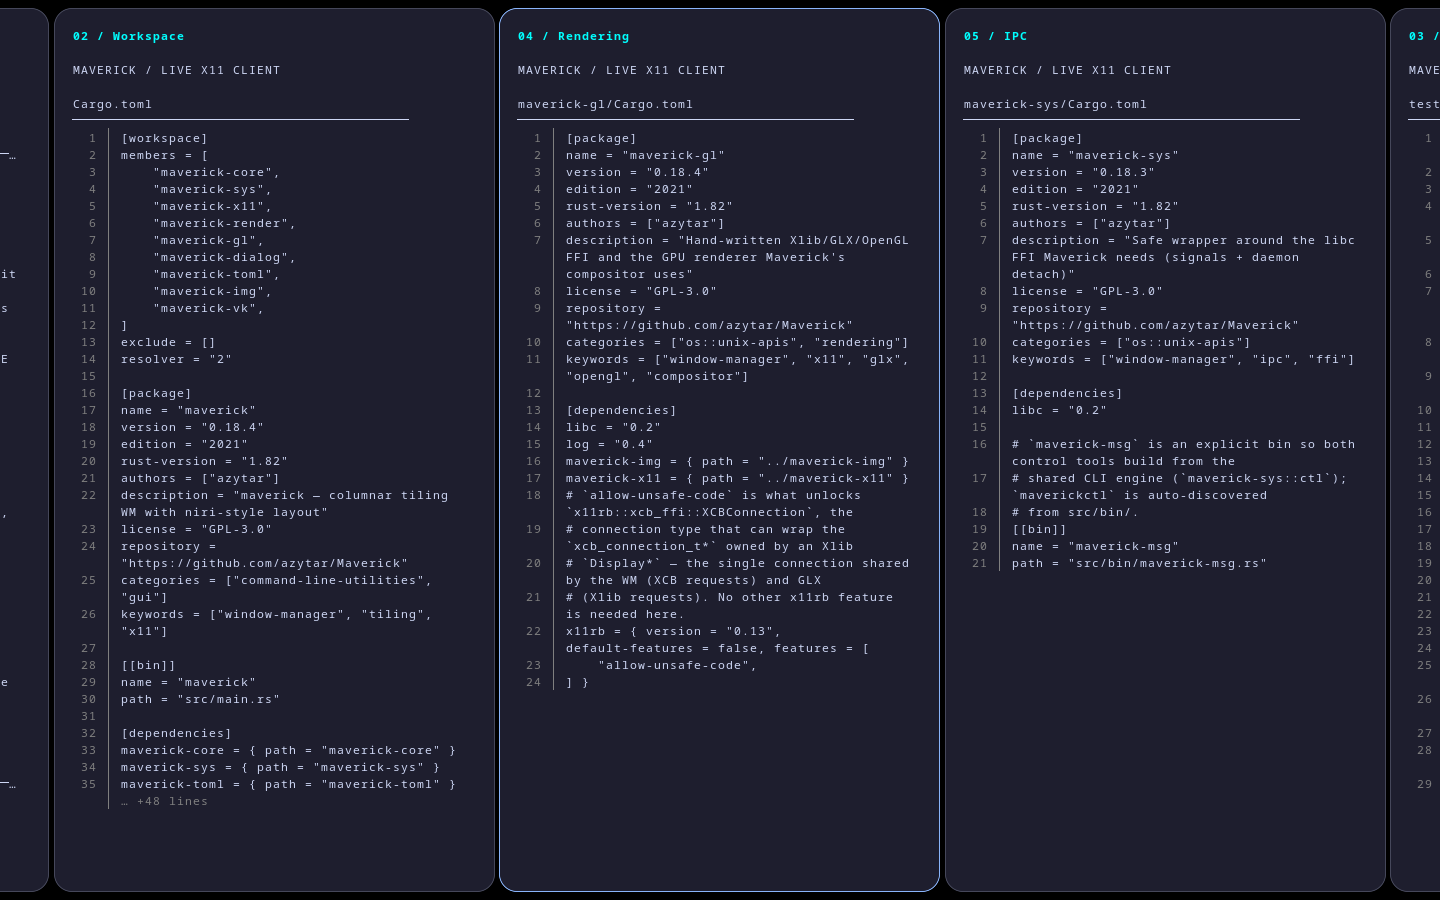
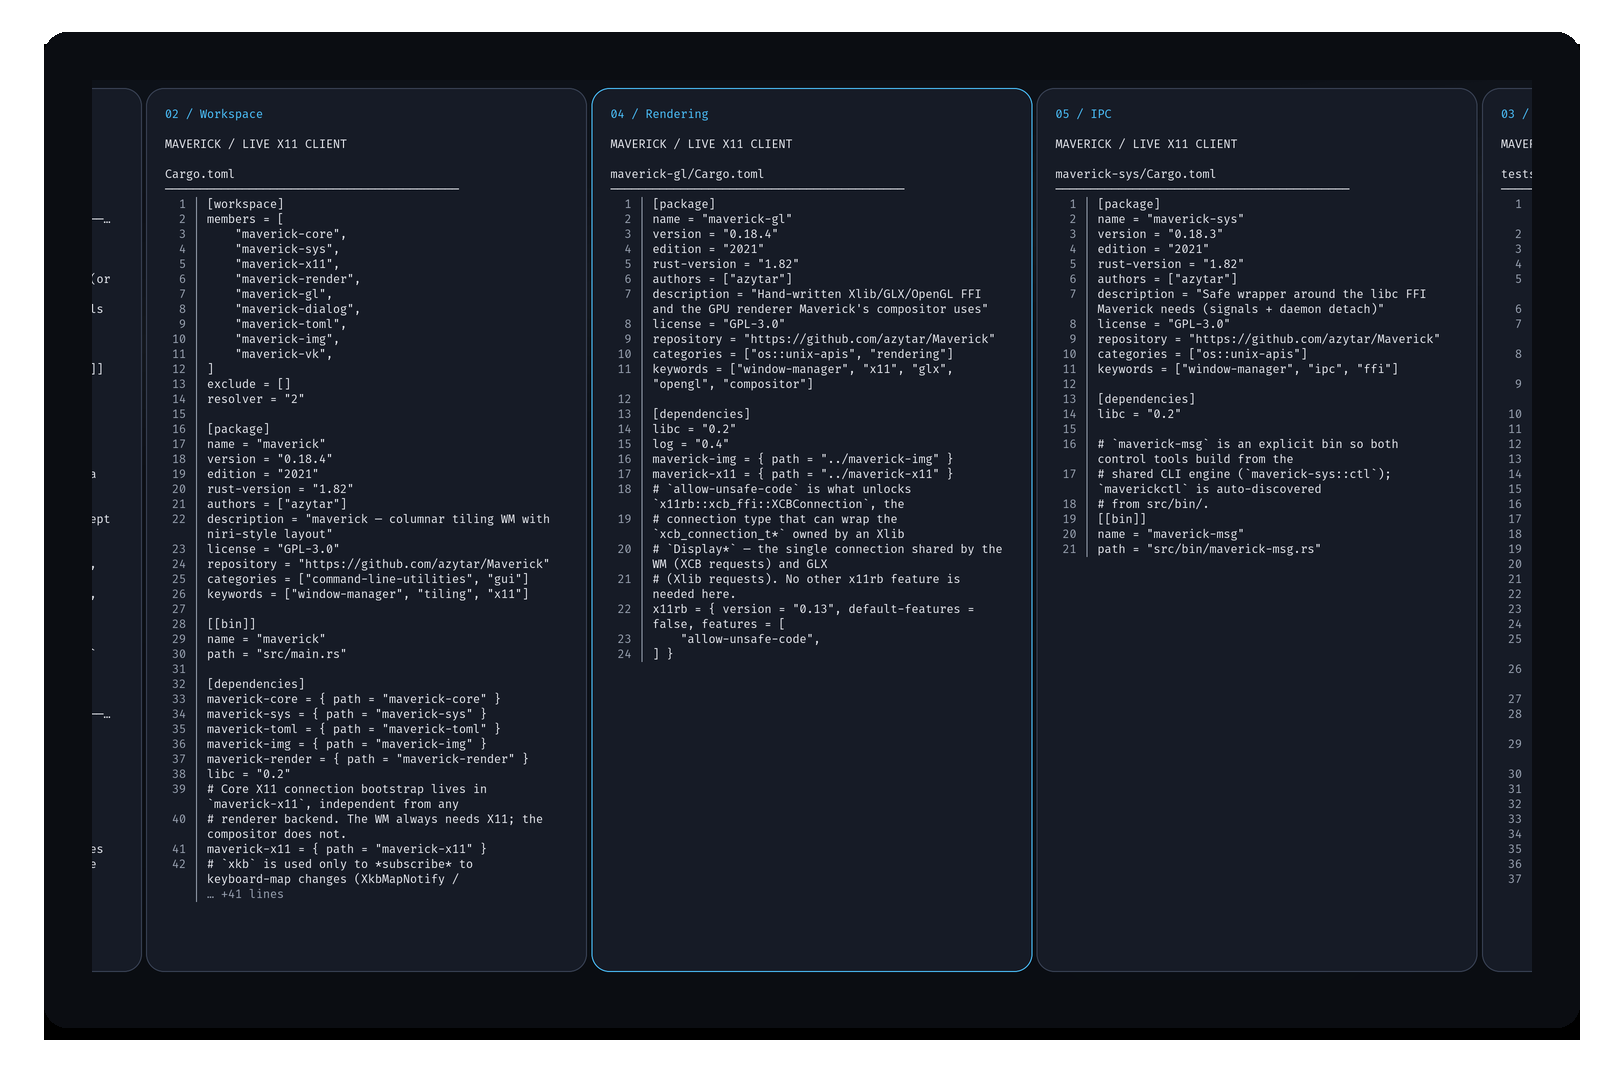
docs: refresh showcase assets
Regenerate all 15 captures with the final 2x pipeline (Fira Code,
showcase palette, procedural wallpaper, Lanczos to 1440x900, sRGB
stripped, 1616x1076 presentation frame). README compositor caption
notes the tinted float; reproduction notes describe the real pipeline.

diff --git a/README.md b/README.md
@@ -612,10 +612,10 @@ The focused window in exclusive fullscreen presentation.
 
 ![Maverick compositor](docs/screenshots/compositor.png)
 
-The optional OpenGL compositor drawing window opacity (the floating window is
-rendered with rule-set `opacity = 0.78`, tiles visible through it) over the same
-layout. Driver and nested-server compatibility still need testing; this capture
-used Mesa's software renderer.
+The optional OpenGL compositor drawing window opacity (the tinted floating
+window is rendered with rule-set `opacity = 0.78`, tiles visible through it)
+over the same layout. Driver and nested-server compatibility still need testing;
+this capture used Mesa's software renderer.
 
 ### Reproducing the screenshots
 
@@ -632,12 +632,15 @@ not replace the WM on the parent display or modify the user's configuration.
 ./scripts/showcase/run.sh all
 ```
 
-Each run verifies the screenshot dimensions, checks that the GL scene really
+Each run renders Maverick inside Xephyr at 2880×1800, captures the root
+window, downsamples with Lanczos to 1440×900 (`sRGB`, stripped metadata),
+and wraps the authentic pixels in a presentation frame (1616×1076 final).
+It verifies every stage's dimensions, checks that the GL scene really
 initialized (`Backend: OpenGL/GLX` plus a submitted frame in the WM log; a
 plain-X11 fallback fails the scene instead of producing a misleading capture),
 reaps every process it created, and removes its temporary state. Dependencies:
 `Xephyr`, `xdpyinfo`, `xdotool`, `xterm`, `xsetroot`, ImageMagick's `import`/
-`identify`, and a reachable host X11 display.
+`identify`/`magick`, and a reachable host X11 display.
 
 ## License
 
